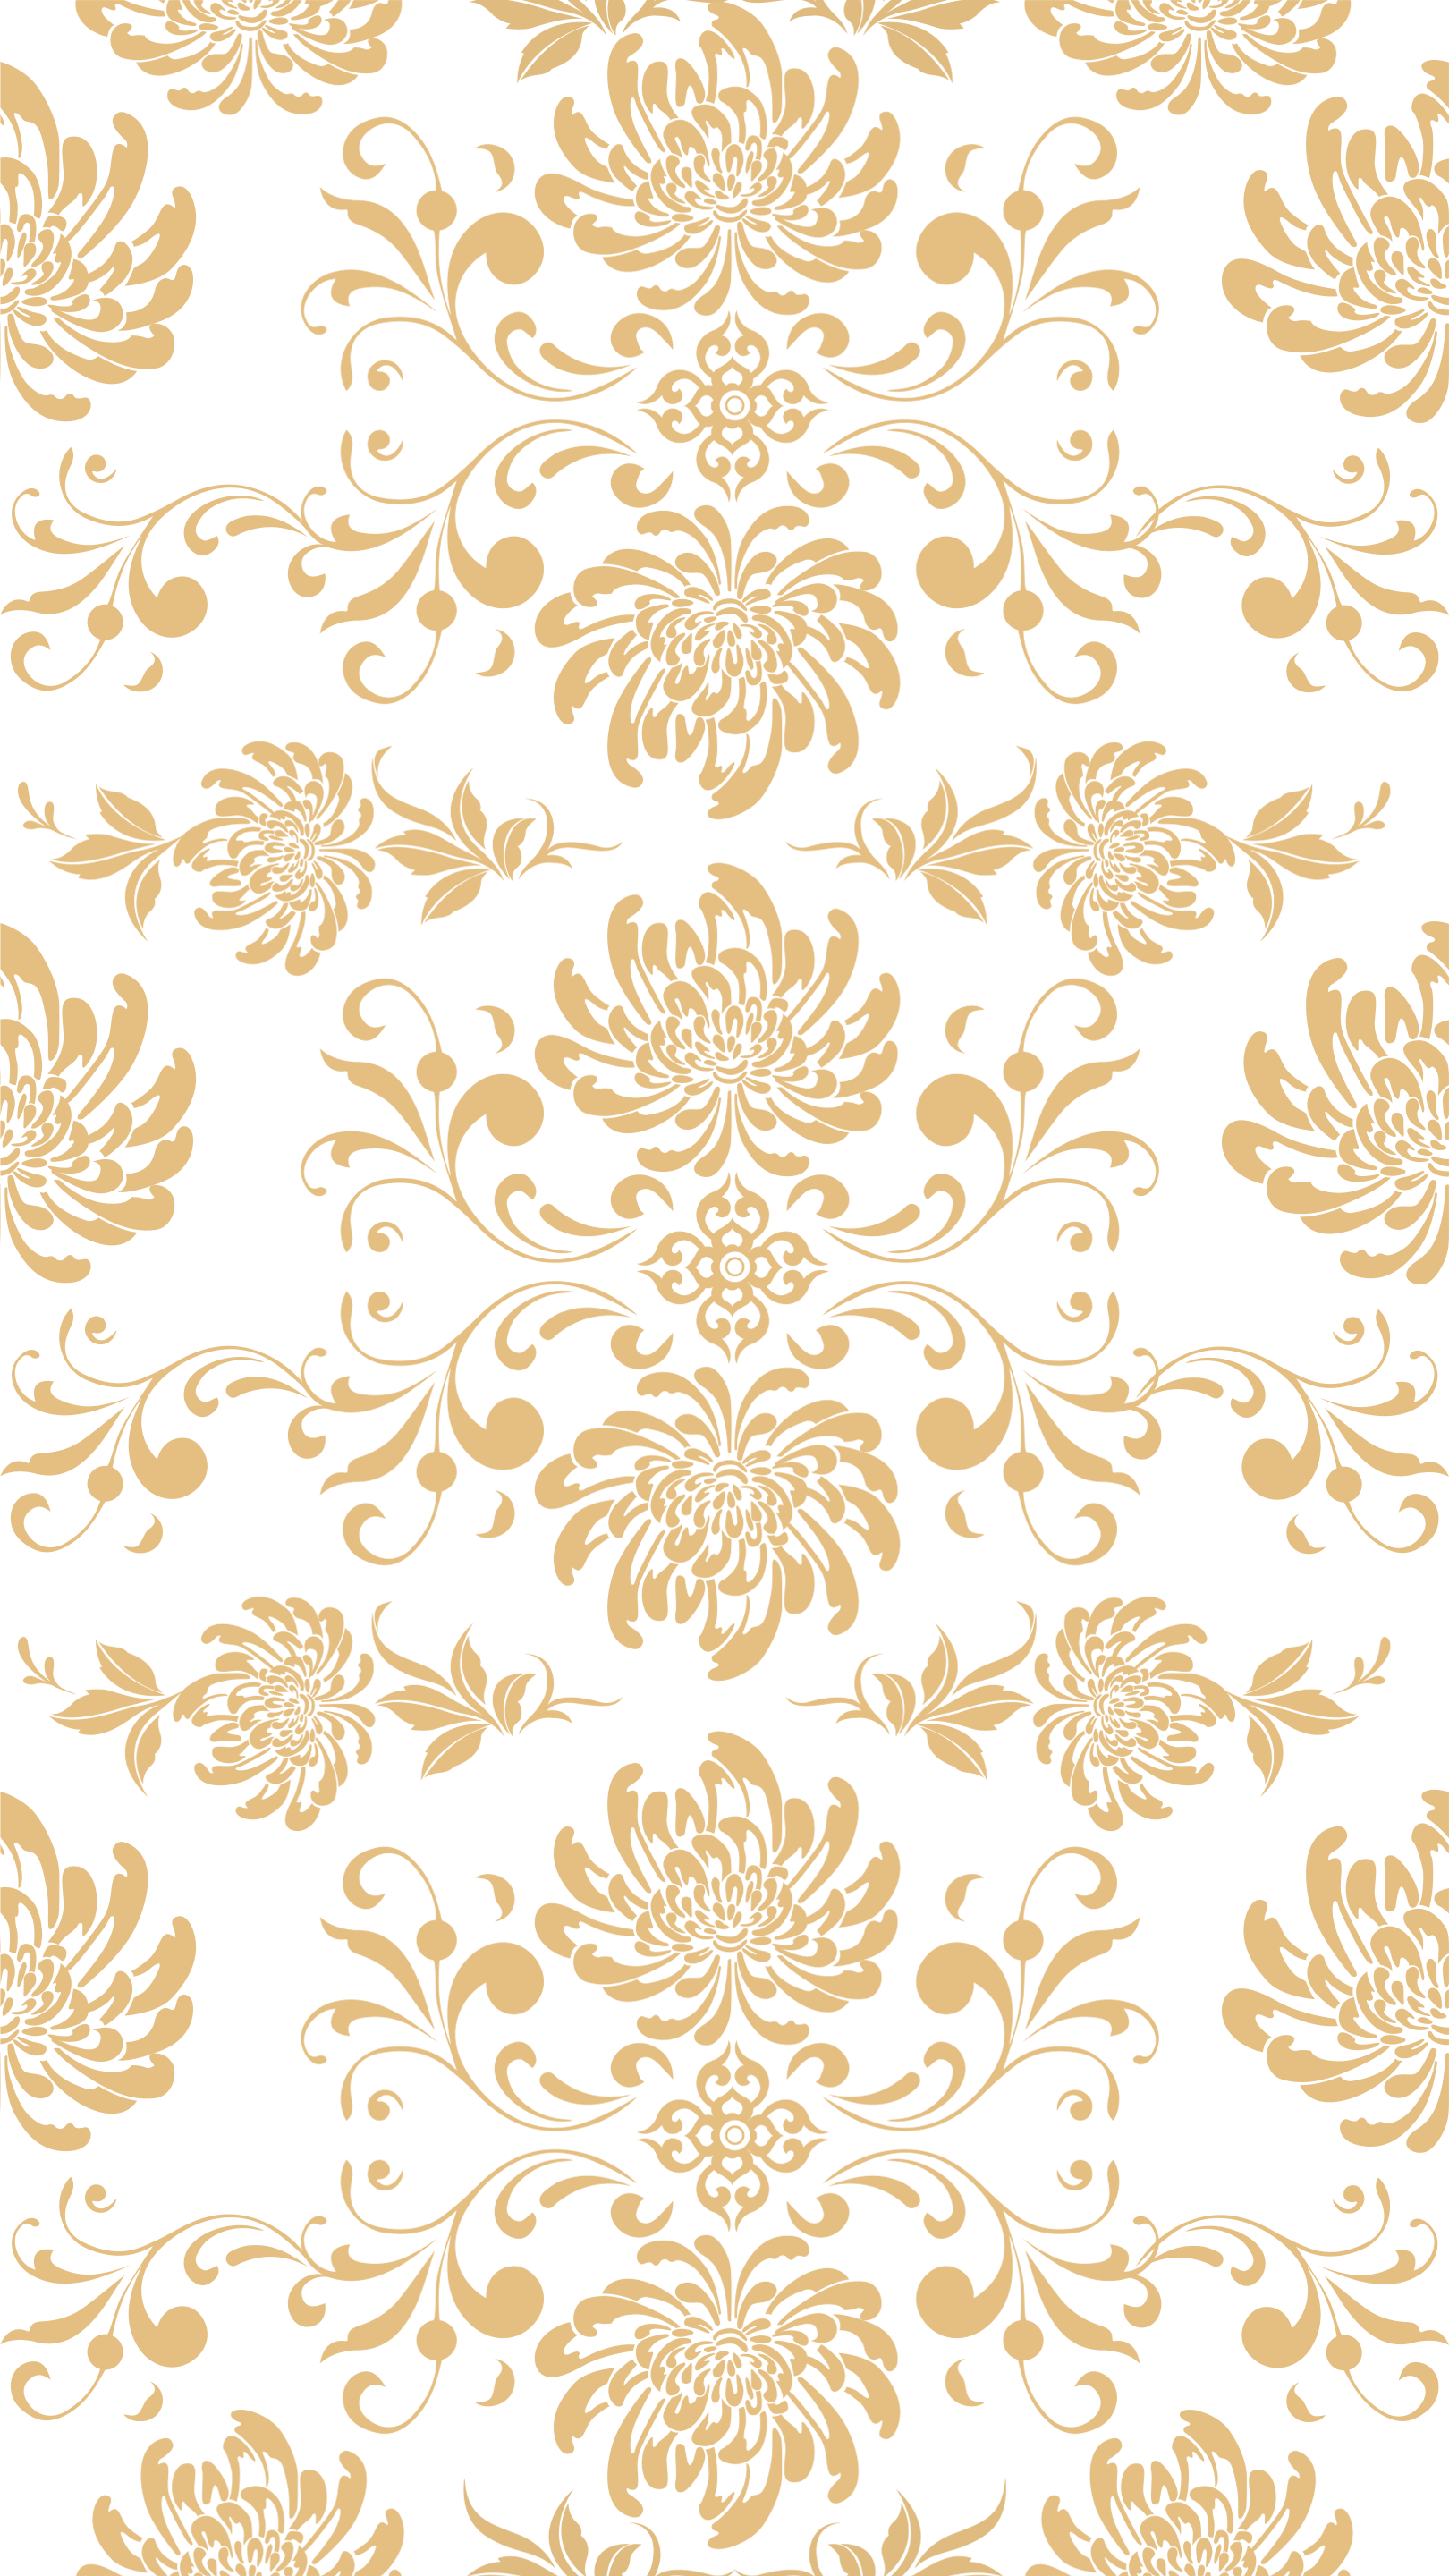
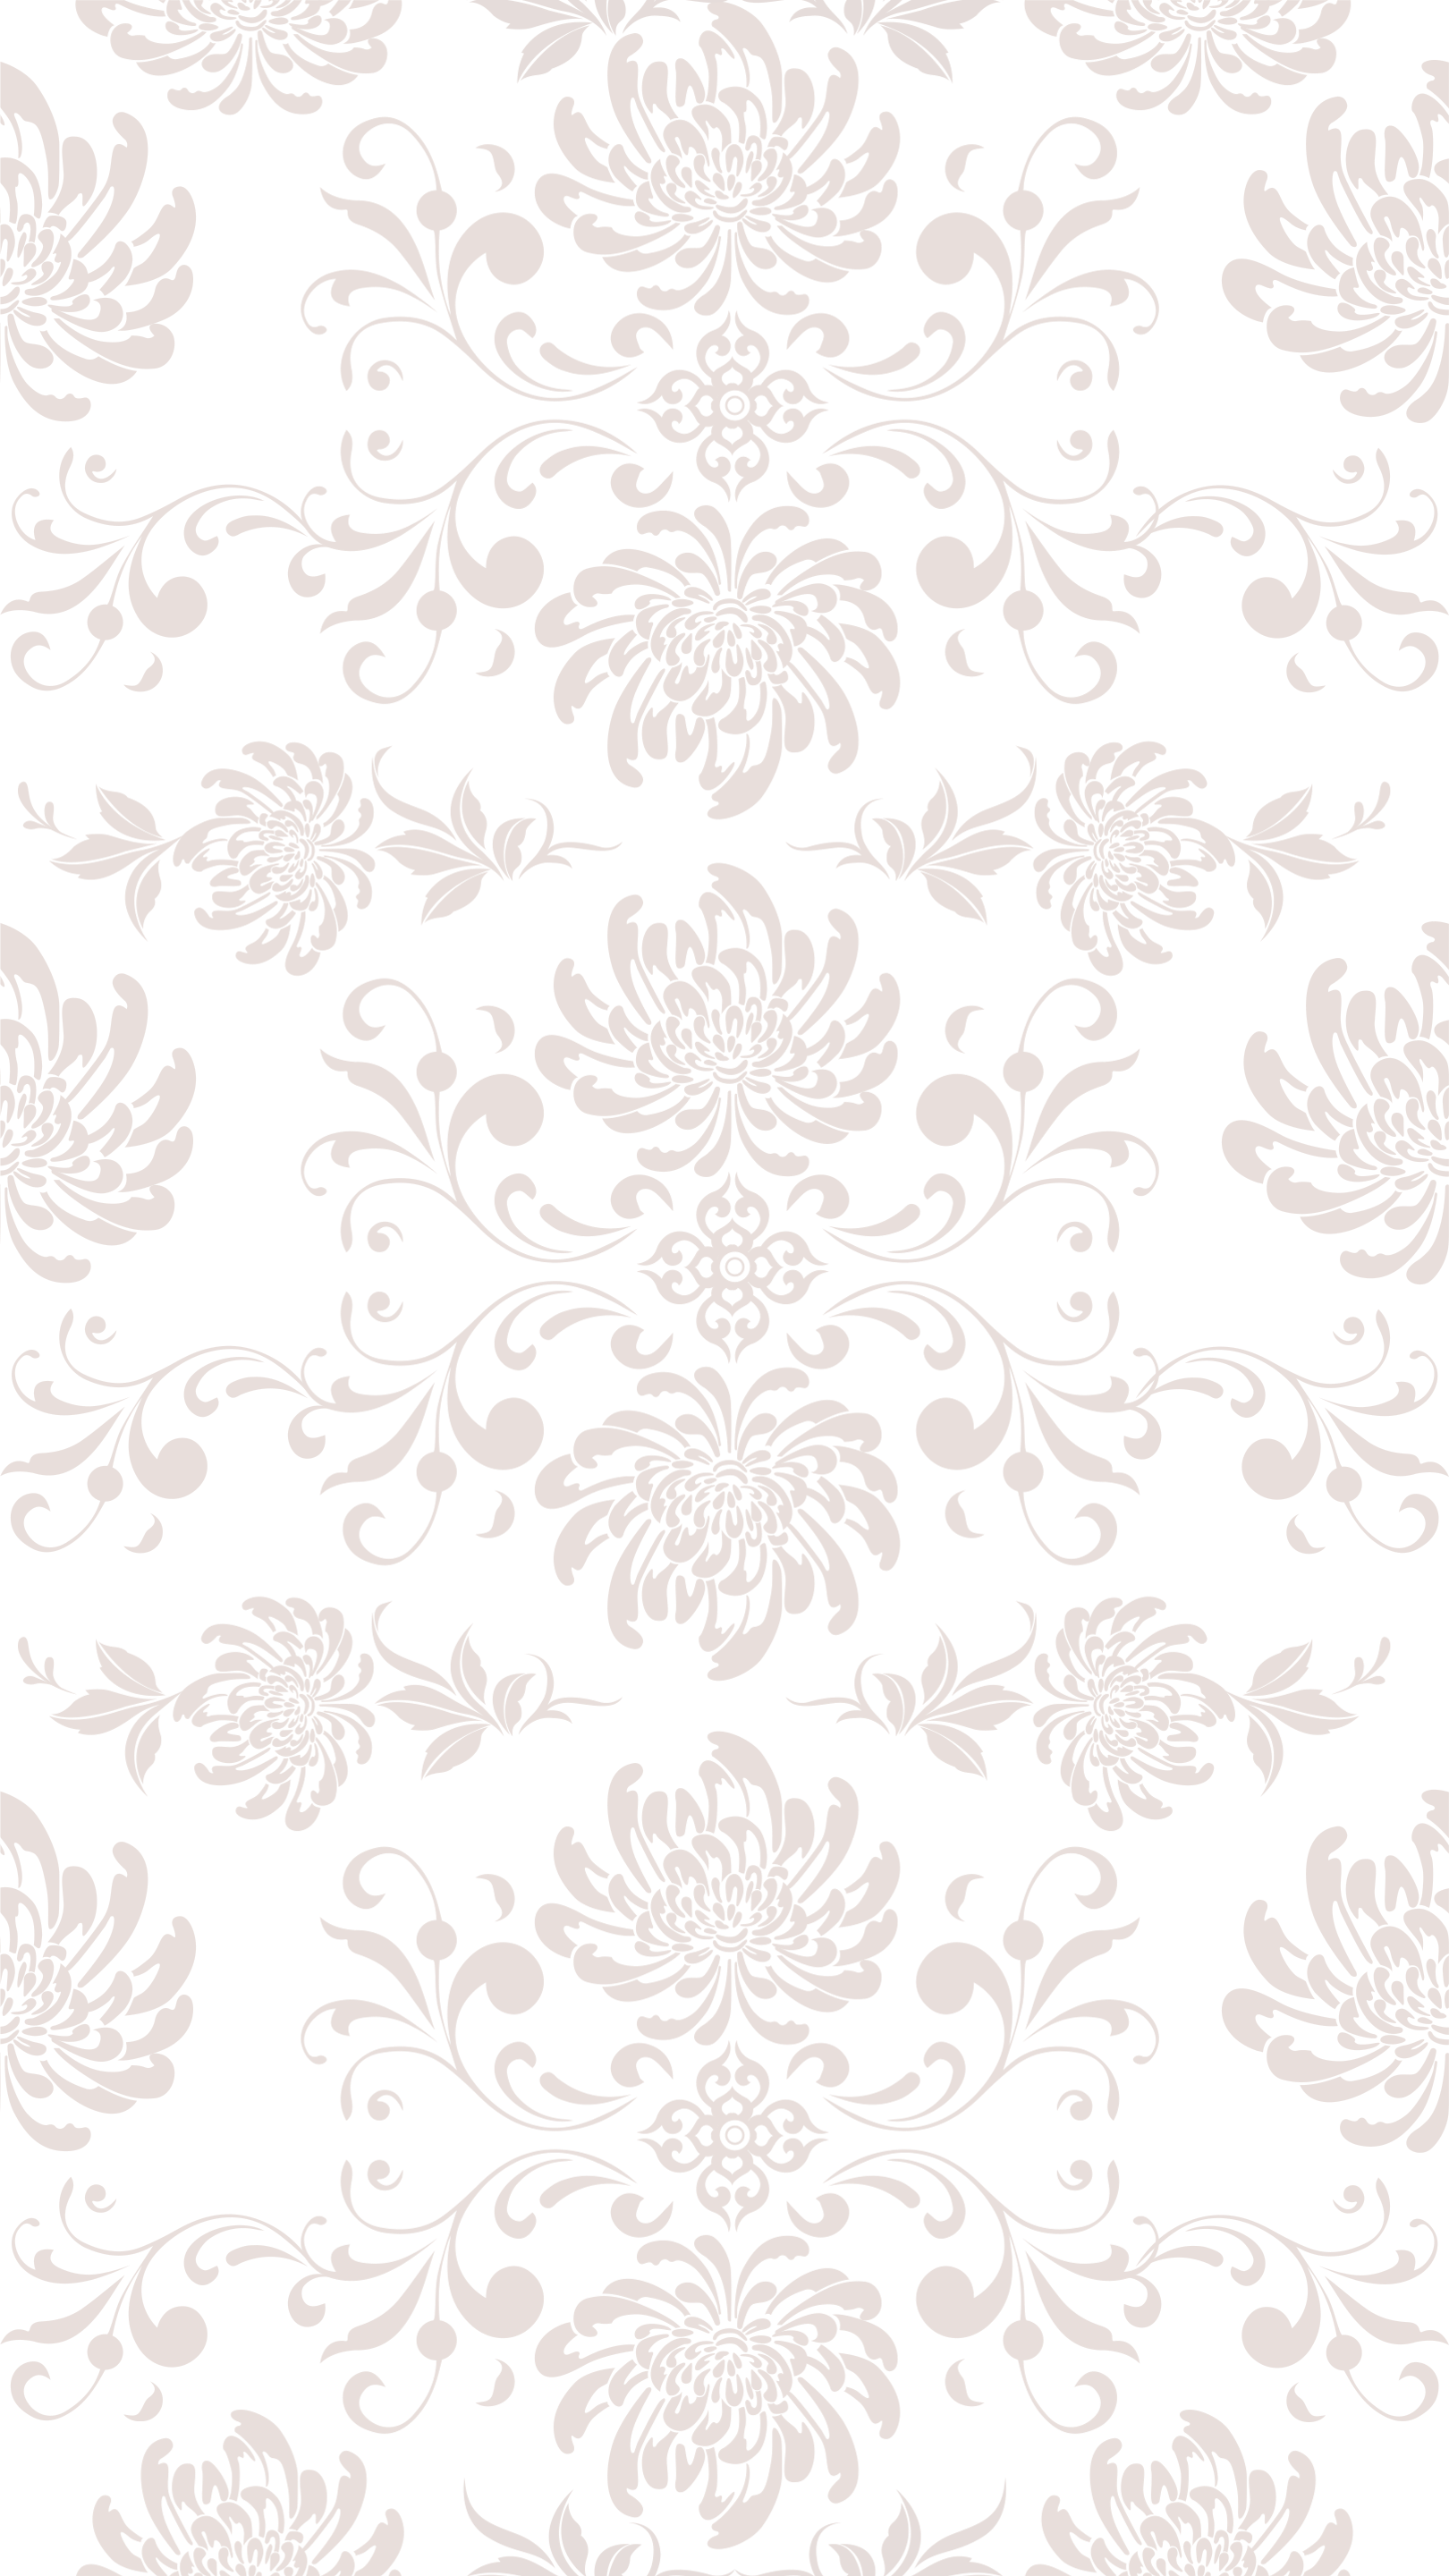
信息卡体验打磨 + 设计同步：滚动渐隐、边缘钳制、空正文对称
InfoCard：
- 同步 Figma 最新设计：卡宽 250px、内层 p16 gap8（两轮 padding 调整）
- 长文滚动：上下边缘 36px 渐隐 mask 表达"滚出可读范围"（滚动感知，
  顶/底各自只在有内容可滚时出现，@user 过渡），隐藏滚动条
- 空正文不渲染正文区，纯标题卡片上下留白对称

卡片摆放（MarkerLayer）：
- 渲染后按实测尺寸钳制进可视区，修复靠近屏幕边缘时卡片被切割
- 下边界避开底部导航栏；上边界必要时允许压过顶部 UI
 （卡片独立 z13 层，marker 本身仍在导航栏之下）

背景：莲花纹更新为 Figma 新纹样（1620×2880 全分辨率重新导出）

Changed region(s): [[0.0, 0.0, 1.0, 1.0], [0.0, 0.625, 0.0309, 0.6562]]

diff --git a/app/src/viewer/MarkerLayer.tsx b/app/src/viewer/MarkerLayer.tsx
@@ -1,8 +1,9 @@
-import { useCallback, useMemo, useRef, useState } from 'react'
+import { useCallback, useLayoutEffect, useMemo, useRef, useState } from 'react'
 import { InfoCard } from '../components/InfoCard/InfoCard'
 import { ListCard } from '../components/ListCard/ListCard'
 import {
   CARD_OFFSET_PX,
+  CARD_VIEWPORT_MARGIN_PX,
   CLICK_ZOOM_FACTOR,
   CLUSTER_MARKER_SIZE,
   CLUSTER_THRESHOLD_PX,
@@ -41,9 +42,6 @@ interface MarkerLayerProps {
   /** 以屏幕点为锚缩放（复用 useViewer 的锚定数学） */
   zoomAtPoint: (ax: number, ay: number, zoom: number, animate: boolean) => void
 }
-
-const INFO_CARD_W = 280
-const LIST_CARD_W = 185
 
 export function MarkerLayer({ annotations, view, size, visible, zoomAtPoint }: MarkerLayerProps) {
   const [hovered, setHovered] = useState<Hovered>(null)
@@ -158,23 +156,39 @@ export function MarkerLayer({ annotations, view, size, visible, zoomAtPoint }: M
     [view.zoom, zoomAtPoint],
   )
 
-  // —— 卡片摆放：锚点侧向偏移，屏幕右缘不够就翻到左侧；保护区精确算法待定（PRD §8）——
-  const cardPos = (sx: number, sy: number, cardW: number) => {
-    const flip = sx + CARD_OFFSET_PX + cardW + 16 > size.w
-    return {
-      left: flip ? sx - CARD_OFFSET_PX - cardW : sx + CARD_OFFSET_PX,
-      top: sy,
-    }
-  }
-
   const hoveredSingle =
     hovered?.type === 'marker' ? singles.find((p) => p.a.id === hovered.id) : undefined
   const hoveredCluster =
     hovered?.type === 'cluster' ? clusters.find((g) => g.key === hovered.key) : undefined
 
+  // —— 卡片摆放：锚点侧向偏移（右侧优先、不够翻左），渲染后按实测尺寸钳制进可视区 ——
+  // 垂直钳制：上缘留 12px（必要时允许压过顶部 UI），下缘避开导航栏；侧向偏移保证任何垂直位移都不遮锚点。
+  // 锚点"保护区"的精确算法待定（PRD §8）。
+  const cardRef = useRef<HTMLDivElement>(null)
+  const anchorX = hoveredSingle?.sx ?? hoveredCluster?.cx
+  const anchorY = hoveredSingle?.sy ?? hoveredCluster?.cy
+
+  useLayoutEffect(() => {
+    const el = cardRef.current
+    if (!el || anchorX === undefined || anchorY === undefined) return
+    const rect = el.getBoundingClientRect()
+    const navH = size.w * 0.044 // 底部导航栏高度（4.4vw）
+    let left = anchorX + CARD_OFFSET_PX
+    if (left + rect.width + CARD_VIEWPORT_MARGIN_PX > size.w) {
+      left = anchorX - CARD_OFFSET_PX - rect.width
+    }
+    left = Math.max(CARD_VIEWPORT_MARGIN_PX, Math.min(left, size.w - rect.width - CARD_VIEWPORT_MARGIN_PX))
+    let top = anchorY - rect.height / 2
+    const maxTop = size.h - navH - CARD_VIEWPORT_MARGIN_PX - rect.height
+    top = Math.max(CARD_VIEWPORT_MARGIN_PX, Math.min(top, maxTop))
+    el.style.left = `${left}px`
+    el.style.top = `${top}px`
+  }, [anchorX, anchorY, size, hovered])
+
   return (
-    <div className={`${styles.layer} ${visible ? '' : styles.layerHidden}`}>
-      {singles.map((p) => {
+    <>
+      <div className={`${styles.layer} ${visible ? '' : styles.layerHidden}`}>
+        {singles.map((p) => {
         const d = MARKER_SIZE[p.a.tier] ?? MARKER_SIZE.场景
         const isHovered = hovered?.type === 'marker' && hovered.id === p.a.id
         return (
@@ -226,42 +240,48 @@ export function MarkerLayer({ annotations, view, size, visible, zoomAtPoint }: M
         )
       })}
 
-      {hoveredSingle && (
-        <div
-          className={styles.card}
-          style={cardPos(hoveredSingle.sx, hoveredSingle.sy, INFO_CARD_W)}
-          onMouseEnter={() => hoverEnter({ type: 'marker', id: hoveredSingle.a.id })}
-          onMouseLeave={hoverLeave}
-          onWheel={(e) => e.stopPropagation()}
-          onClick={(e) => e.stopPropagation()}
-        >
-          <InfoCard
-            category={categoryOf(hoveredSingle.a)}
-            title={hoveredSingle.a.title_zh || '（未命名）'}
-          >
-            {hoveredSingle.a.body_zh}
-          </InfoCard>
-        </div>
-      )}
+      </div>
 
-      {hoveredCluster && (
-        <div
-          className={styles.card}
-          style={cardPos(hoveredCluster.cx, hoveredCluster.cy, LIST_CARD_W)}
-          onMouseEnter={() => hoverEnter({ type: 'cluster', key: hoveredCluster.key })}
-          onMouseLeave={hoverLeave}
-          onWheel={(e) => e.stopPropagation()}
-          onClick={(e) => e.stopPropagation()}
-        >
-          <ListCard
-            items={hoveredCluster.members.map((m) => ({
-              category: categoryOf(m.a),
-              label: m.a.title_zh || '（未命名）',
-              onClick: () => zoomToClusterMember(hoveredCluster, m),
-            }))}
-          />
+      {/* 卡片独立于 marker 层：z 高于顶部 UI（允许压过），marker 本身仍在导航栏之下 */}
+      {visible && (hoveredSingle || hoveredCluster) && (
+        <div className={styles.cardLayer}>
+          <div
+            ref={cardRef}
+            className={styles.card}
+            style={{
+              left: (anchorX ?? 0) + CARD_OFFSET_PX,
+              top: Math.max(CARD_VIEWPORT_MARGIN_PX, (anchorY ?? 0) - 160),
+            }}
+            onMouseEnter={() =>
+              hoverEnter(
+                hoveredSingle
+                  ? { type: 'marker', id: hoveredSingle.a.id }
+                  : { type: 'cluster', key: hoveredCluster!.key },
+              )
+            }
+            onMouseLeave={hoverLeave}
+            onWheel={(e) => e.stopPropagation()}
+            onClick={(e) => e.stopPropagation()}
+          >
+            {hoveredSingle ? (
+              <InfoCard
+                category={categoryOf(hoveredSingle.a)}
+                title={hoveredSingle.a.title_zh || '（未命名）'}
+              >
+                {hoveredSingle.a.body_zh}
+              </InfoCard>
+            ) : (
+              <ListCard
+                items={hoveredCluster!.members.map((m) => ({
+                  category: categoryOf(m.a),
+                  label: m.a.title_zh || '（未命名）',
+                  onClick: () => zoomToClusterMember(hoveredCluster!, m),
+                }))}
+              />
+            )}
+          </div>
         </div>
       )}
-    </div>
+    </>
   )
 }

diff --git a/app/src/components/InfoCard/InfoCard.module.css b/app/src/components/InfoCard/InfoCard.module.css
@@ -1,6 +1,6 @@
-/* Figma 卡片wraper 63:208：280 宽 / 纸面80% / p8 radius2；内层金字描边 p24 gap16 */
+/* Figma 卡片wraper 63:208（2026-07-11 更新）：250 宽 / 纸面80% / p8 radius2；内层金字描边 p16 gap8 */
 .card {
-  width: 280px;
+  width: 250px;
   padding: 8px;
   background: var(--paper-80);
   border-radius: var(--radius-sm);
@@ -9,8 +9,8 @@
 .inner {
   display: flex;
   flex-direction: column;
-  gap: 16px;
-  padding: 24px;
+  gap: 8px;
+  padding: 16px;
   border: 1px solid var(--gold-text);
   border-radius: var(--radius-sm);
 }
@@ -31,7 +31,21 @@
   white-space: nowrap;
 }
 
-/* pre-line 保留标注正文里的换行；长内容卡片内部滚动（滚动事件由挂载方 stopPropagation，PRD §3.8） */
+/* 滚动边缘渐隐用的可动画自定义属性（不支持 @property 的浏览器退化为瞬时切换） */
+@property --fade-t {
+  syntax: '<length>';
+  inherits: false;
+  initial-value: 0px;
+}
+
+@property --fade-b {
+  syntax: '<length>';
+  inherits: false;
+  initial-value: 0px;
+}
+
+/* pre-line 保留标注正文里的换行；长内容卡片内部滚动（滚动事件由挂载方 stopPropagation，PRD §3.8）
+   滚出可读范围的文字用渐隐 mask 表达，不做生硬切割；滚动条隐藏 */
 .body {
   font-family: var(--font-serif);
   font-size: 14px;
@@ -41,6 +55,31 @@
   white-space: pre-line;
   max-height: 320px;
   overflow-y: auto;
+  scrollbar-width: none;
+  --fade-t: 0px;
+  --fade-b: 0px;
+  mask-image: linear-gradient(
+    to bottom,
+    transparent 0,
+    #000 var(--fade-t),
+    #000 calc(100% - var(--fade-b)),
+    transparent 100%
+  );
+  transition:
+    --fade-t 250ms ease,
+    --fade-b 250ms ease;
+}
+
+.body::-webkit-scrollbar {
+  display: none;
+}
+
+.fadeTop {
+  --fade-t: 36px;
+}
+
+.fadeBottom {
+  --fade-b: 36px;
 }
 
 .body a {

diff --git a/app/src/components/InfoCard/InfoCard.tsx b/app/src/components/InfoCard/InfoCard.tsx
@@ -1,15 +1,32 @@
-import type { ReactNode } from 'react'
+import { useCallback, useEffect, useRef, useState, type ReactNode } from 'react'
 import { CategorySeal, type Category } from '../CategorySeal/CategorySeal'
 import styles from './InfoCard.module.css'
 
 interface InfoCardProps {
   category: Category
   title: string
-  /** 正文；行内链接直接用 <a>，颜色固定 UI红 */
-  children: ReactNode
+  /** 正文；行内链接直接用 <a>，颜色固定 UI红。为空时不渲染正文区（标题上下留白保持对称） */
+  children?: ReactNode
 }
 
 export function InfoCard({ category, title, children }: InfoCardProps) {
+  const hasBody = children != null && (typeof children !== 'string' || children.trim() !== '')
+  const bodyRef = useRef<HTMLDivElement>(null)
+  // 滚动边缘渐隐：顶部/底部各自只在"该方向还有内容滚出可读范围"时出现
+  const [fade, setFade] = useState({ top: false, bottom: false })
+
+  const updateFade = useCallback(() => {
+    const el = bodyRef.current
+    if (!el) return
+    const top = el.scrollTop > 2
+    const bottom = el.scrollTop + el.clientHeight < el.scrollHeight - 2
+    setFade((f) => (f.top === top && f.bottom === bottom ? f : { top, bottom }))
+  }, [])
+
+  useEffect(() => {
+    updateFade()
+  }, [children, updateFade])
+
   return (
     <div className={styles.card}>
       <div className={styles.inner}>
@@ -17,7 +34,15 @@ export function InfoCard({ category, title, children }: InfoCardProps) {
           <CategorySeal category={category} />
           <h2 className={styles.title}>{title}</h2>
         </div>
-        <div className={styles.body}>{children}</div>
+        {hasBody && (
+          <div
+            ref={bodyRef}
+            onScroll={updateFade}
+            className={`${styles.body} ${fade.top ? styles.fadeTop : ''} ${fade.bottom ? styles.fadeBottom : ''}`}
+          >
+            {children}
+          </div>
+        )}
       </div>
     </div>
   )

diff --git a/app/src/viewer/MarkerLayer.module.css b/app/src/viewer/MarkerLayer.module.css
@@ -60,9 +60,15 @@
   transition: opacity 160ms ease;
 }
 
+/* 卡片层：独立于 marker 层，z 高于顶/底 UI（10/11）——边缘钳制后仍不够时直接压过 UI */
+.cardLayer {
+  position: fixed;
+  inset: 0;
+  z-index: 13;
+  pointer-events: none;
+}
+
 .card {
   position: absolute;
-  transform: translateY(-50%);
   pointer-events: auto;
-  z-index: 6;
 }

diff --git a/app/src/viewer/constants.ts b/app/src/viewer/constants.ts
@@ -68,5 +68,7 @@ export const CLUSTER_THRESHOLD_PX = 48
 export const HOVER_LEAVE_MS = 280
 /** 信息卡与锚点的间距（保护区具体算法待定，先用固定侧向偏移保证不遮锚点） */
 export const CARD_OFFSET_PX = 24
+/** 卡片距视口边缘的最小留白；底部另加导航栏高度（避开底部 UI，顶部允许压过 UI） */
+export const CARD_VIEWPORT_MARGIN_PX = 12
 /** 视口外多渲染的余量，避免边缘 marker 拖入时闪现 */
 export const MARKER_CULL_MARGIN_PX = 120